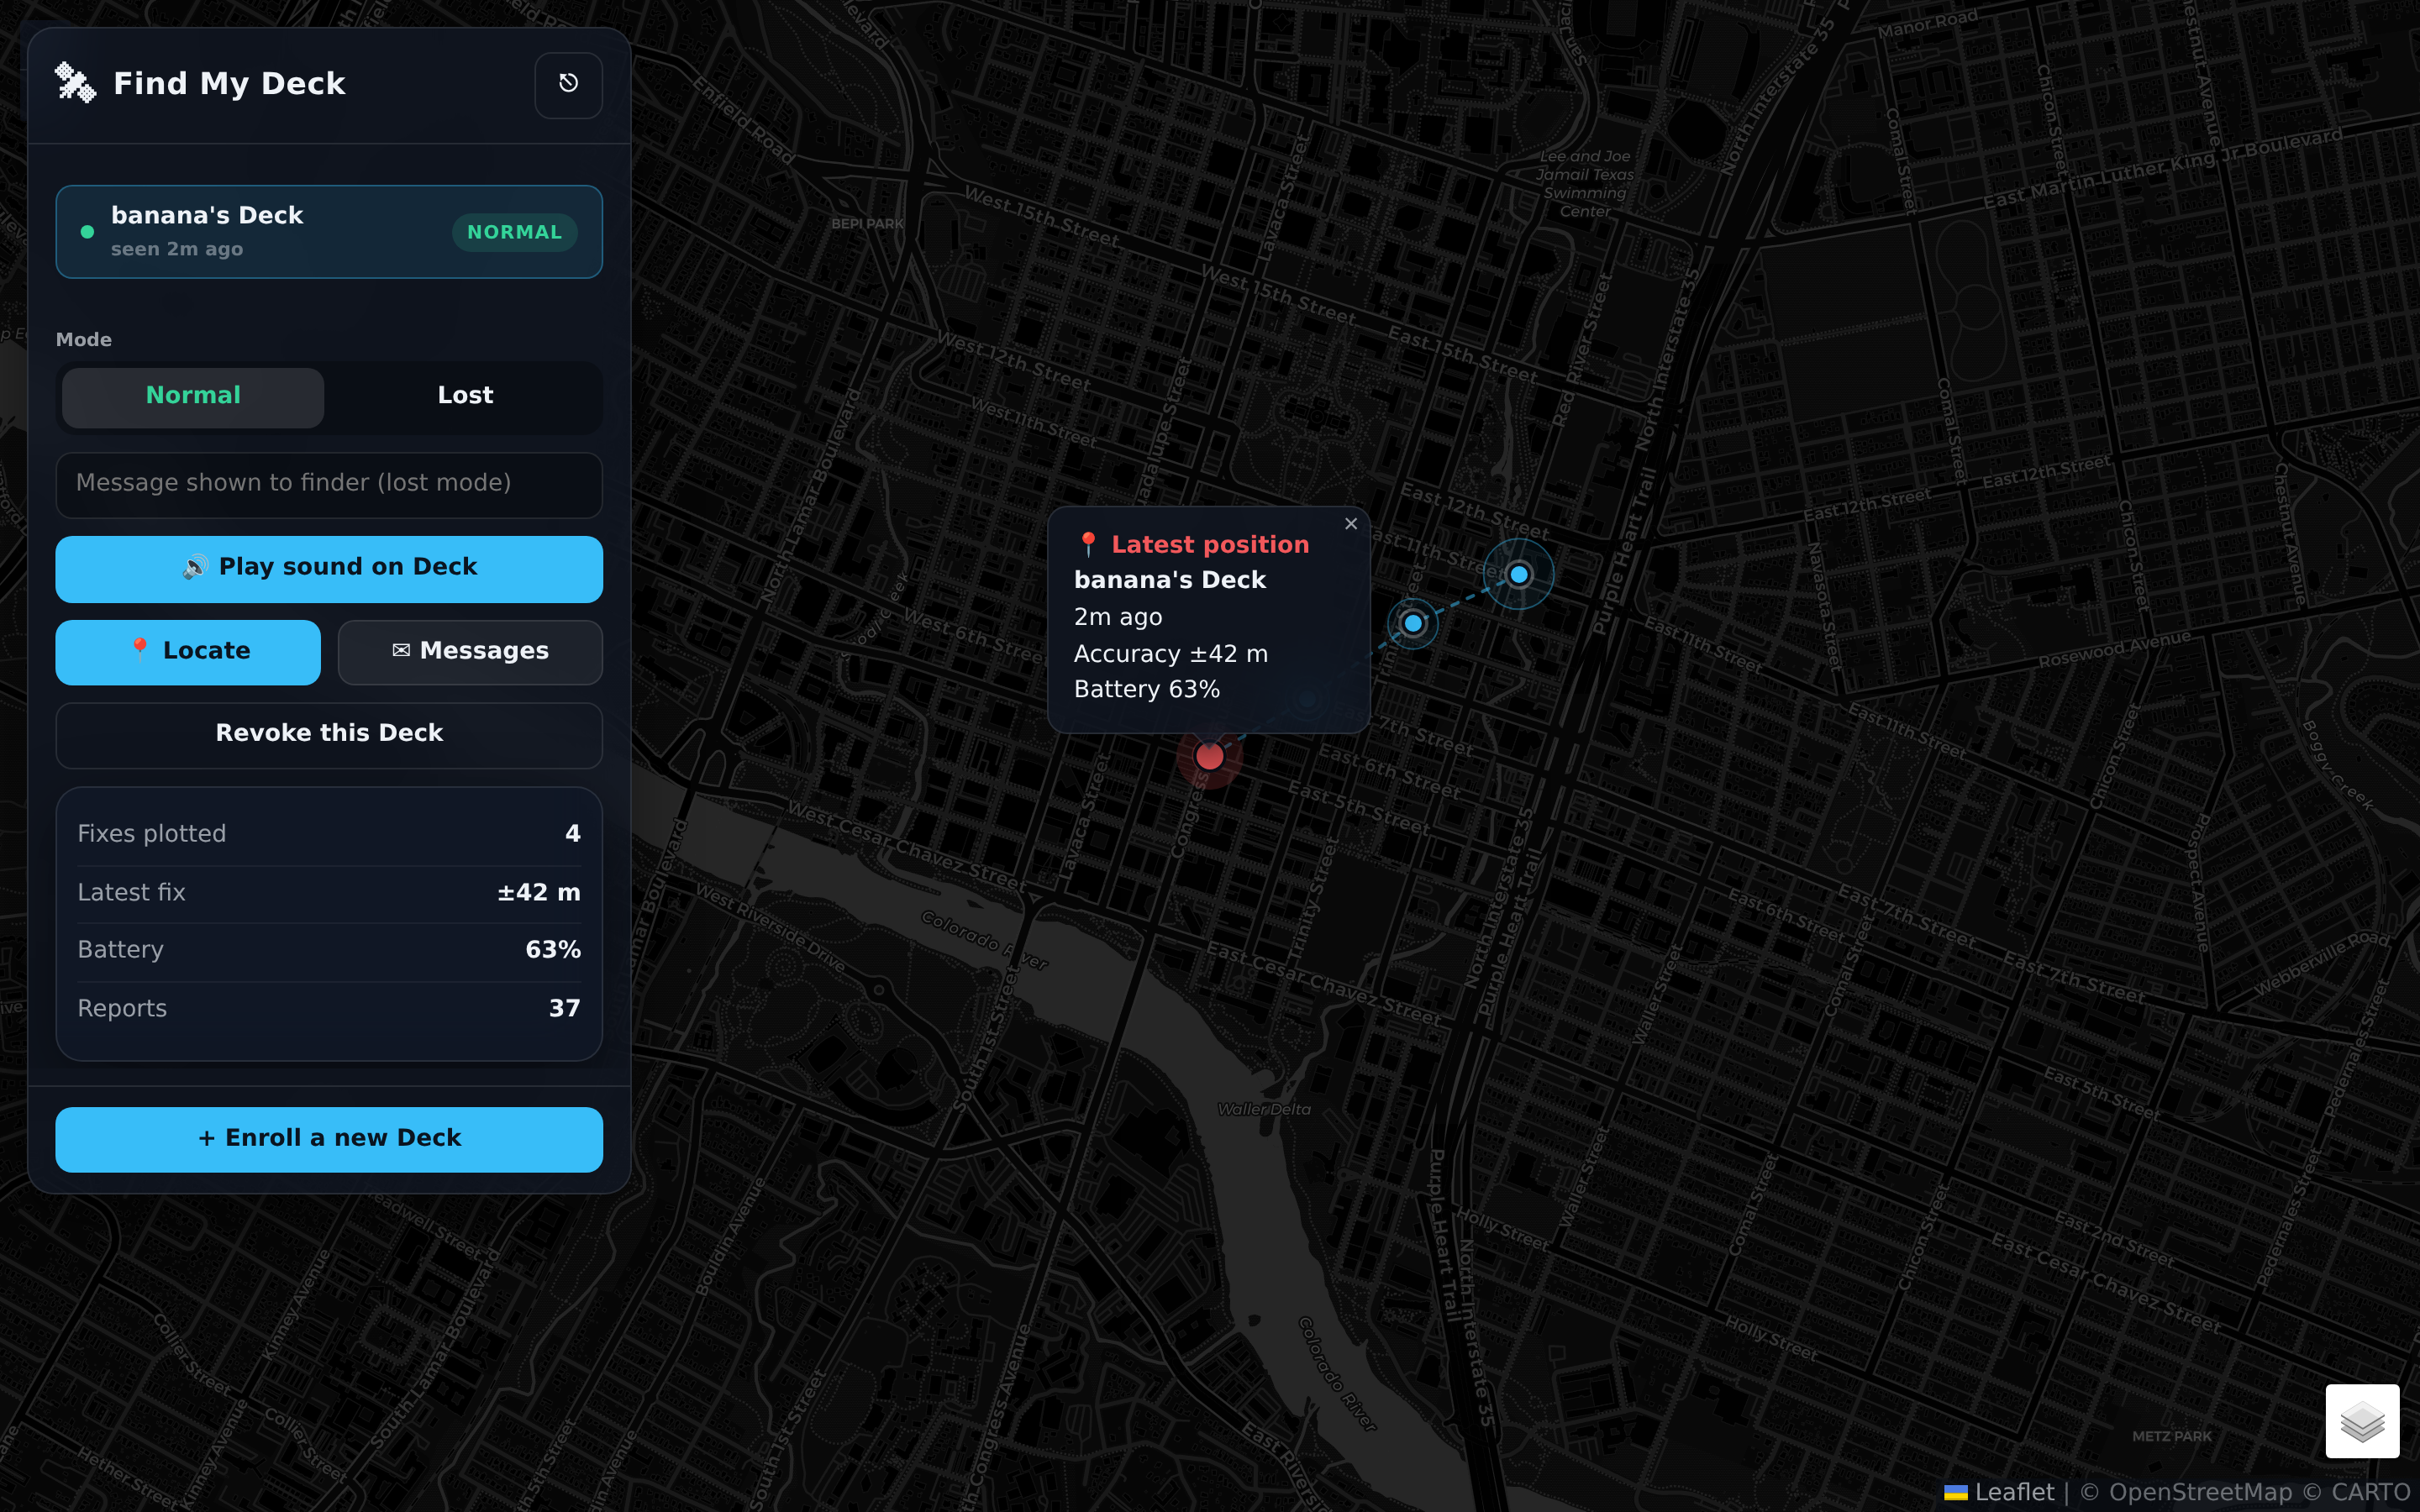
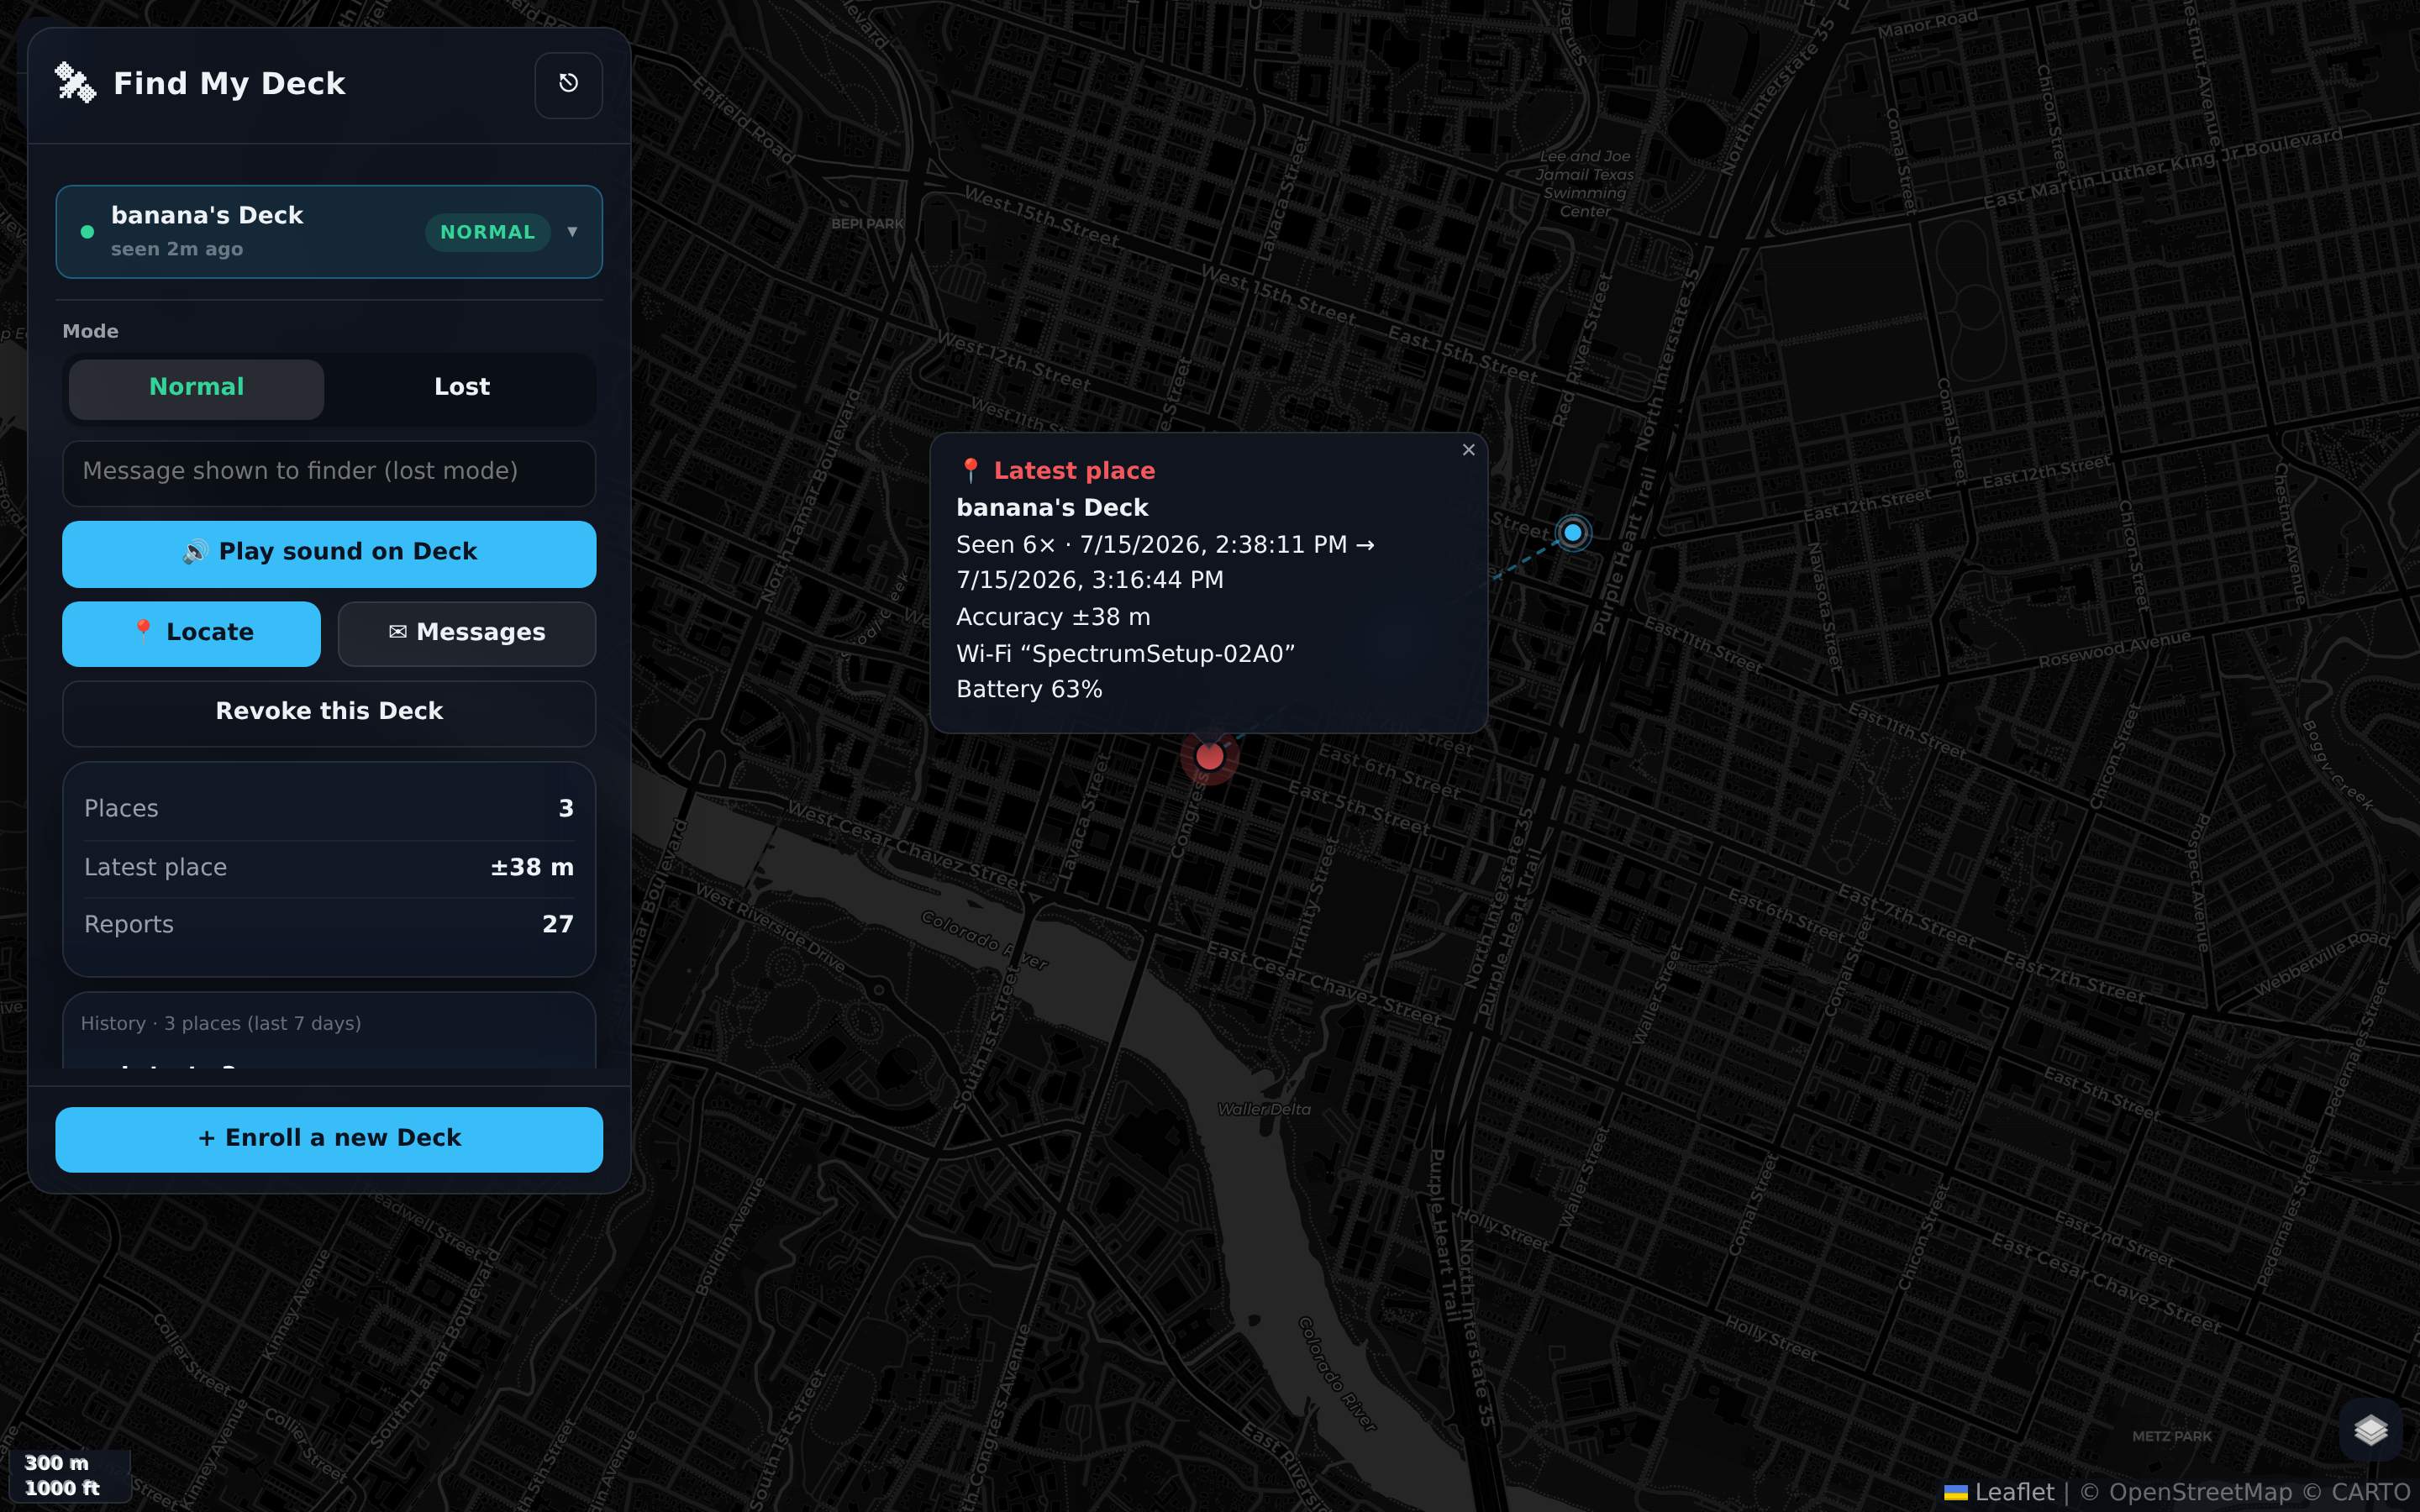
Cluster locations into places; glass map controls + scale bar; plugin v0.8.2
- dashboard: cluster jittery same-place Wi-Fi fixes into distinct places
  (visit count + time span); History and popups now read "places", not raw
  pings. Clustering is client-side by necessity — the server only holds
  ciphertext and never sees a coordinate.
- map: glassy zoom + layers controls, a distance scale bar with tick marks
- plugin: v0.8.2 (bundles the connected-SSID capture)
- docs: refresh dashboard screenshot to current copy (Places / History)

diff --git a/docs/media/demo-dashboard.html b/docs/media/demo-dashboard.html
@@ -23,7 +23,33 @@
     .leaflet-container { background: #0a0f18 !important; font: inherit; }
     .leaflet-control-attribution { background: rgba(10,15,24,.6) !important; color: var(--ink-faint) !important; }
     .leaflet-control-attribution a { color: var(--ink-dim) !important; }
-    .leaflet-bar a { background: var(--glass) !important; color: var(--ink) !important; border-color: var(--glass-brd) !important; }
+    /* zoom control — glass, rounded, with a tick divider between +/- */
+    .leaflet-bar { border: none !important; border-radius: 12px !important; overflow: hidden;
+      box-shadow: 0 8px 24px rgba(0,0,0,.45) !important; }
+    .leaflet-bar a { background: var(--glass) !important; color: var(--ink) !important;
+      backdrop-filter: blur(18px) saturate(1.3); -webkit-backdrop-filter: blur(18px) saturate(1.3);
+      width: 34px !important; height: 34px !important; line-height: 34px !important; font-size: 19px !important;
+      border: none !important; border-bottom: 1px solid var(--glass-brd) !important; transition: background .15s, color .15s; }
+    .leaflet-bar a:last-child { border-bottom: none !important; }
+    .leaflet-bar a:hover { background: rgba(56,189,248,.16) !important; color: var(--accent) !important; }
+    .leaflet-bar a.leaflet-disabled { opacity: .35 !important; }
+
+    /* layers switcher — glass pill toggle + glass panel when open */
+    .leaflet-control-layers { border: none !important; border-radius: 12px !important;
+      background: var(--glass) !important; color: var(--ink) !important;
+      backdrop-filter: blur(18px) saturate(1.3); -webkit-backdrop-filter: blur(18px) saturate(1.3);
+      box-shadow: 0 8px 24px rgba(0,0,0,.45) !important; }
+    .leaflet-control-layers-toggle { width: 38px !important; height: 38px !important;
+      background-size: 20px 20px !important; }
+    .leaflet-control-layers-expanded { padding: 10px 14px 10px 10px !important; }
+    .leaflet-control-layers label { font-size: 13px; font-weight: 600; margin: 3px 0; display: flex; align-items: center; gap: 7px; }
+    .leaflet-control-layers-selector { accent-color: var(--accent); }
+
+    /* scale bar — distance tick marks */
+    .leaflet-control-scale-line { background: var(--glass) !important; color: var(--ink-dim) !important;
+      border: 1px solid var(--glass-brd) !important; border-top: none !important; border-radius: 0 0 6px 6px;
+      padding: 2px 8px !important; font-size: 11px; font-weight: 600;
+      backdrop-filter: blur(12px); -webkit-backdrop-filter: blur(12px); }
 
     /* floating layer */
     .layer { position: fixed; z-index: 10; }
@@ -77,6 +103,11 @@
       background: transparent; border: 1px solid transparent; }
     .devbtn:hover { background: rgba(255,255,255,.06); }
     .devbtn.active { background: rgba(56,189,248,.12); border-color: rgba(56,189,248,.35); }
+    .devbtn .chev { font-size: 12px; opacity: .55; transition: transform .18s ease; }
+    .devbtn.open .chev { transform: rotate(90deg); }
+    .drawer { display: flex; flex-direction: column; gap: 8px; padding: 10px 4px 4px;
+      margin: 2px 0 4px; border-top: 1px solid var(--glass-brd); animation: drawer .18s ease; }
+    @keyframes drawer { from { opacity: 0; transform: translateY(-4px); } to { opacity: 1; transform: none; } }
     .dot { width: 8px; height: 8px; border-radius: 50%; flex: none; }
     .dot.normal { background: var(--normal); } .dot.lost { background: var(--lost); } .dot.stolen { background: var(--stolen); }
 
@@ -105,6 +136,17 @@
     a { color: var(--accent); }
     .empty { text-align: center; color: var(--ink-dim); padding: 24px 8px; }
 
+    /* location history */
+    .histlist { max-height: 240px; overflow-y: auto; display: flex; flex-direction: column; gap: 2px; margin: 0 -2px; }
+    .histrow { display: flex; gap: 10px; align-items: center; width: 100%; text-align: left;
+      background: transparent; border: 0; border-radius: 8px; padding: 7px 8px; cursor: pointer; color: var(--ink); }
+    .histrow:hover { background: rgba(255,255,255,.06); }
+    .histrow .hr-dot { width: 8px; height: 8px; border-radius: 50%; background: var(--accent); flex: none; }
+    .histrow.latest .hr-dot { background: #f2585b; box-shadow: 0 0 8px rgba(242,88,91,.7); }
+    .hr-main { display: flex; flex-direction: column; gap: 1px; min-width: 0; }
+    .hr-when { font-size: 13px; font-weight: 600; }
+    .hr-sub { font-size: 11px; color: var(--ink-dim); white-space: nowrap; overflow: hidden; text-overflow: ellipsis; }
+
     /* map markers */
     .pin { border-radius: 50%; border: 2px solid #0a0f18; box-shadow: 0 0 0 2px rgba(255,255,255,.25); }
     .pin-latest { animation: pulse 2s ease-out infinite; }
@@ -127,13 +169,19 @@
     // --- self-contained mock: hardcoded fake data, no server, no fetch ---
     const h = (html) => { const t = document.createElement('template'); t.innerHTML = html.trim(); return t.content.firstChild; };
 
-    // Austin, TX. Newest-first trail (latest at index 0).
+    // Austin, TX. Clustered PLACES (newest-first, latest at index 0). Each place
+    // is a de-noised centre of nearby Wi-Fi pings, with a visit count + time span.
     const CENTER = [30.2672, -97.7431];
-    const fixes = [
-      { lat: 30.26720, lon: -97.74310, accuracy: 42, batt: 0.63, label: '2m ago' },
-      { lat: 30.26845, lon: -97.74060, accuracy: 55, batt: 0.66, label: '19m ago' },
-      { lat: 30.27010, lon: -97.73790, accuracy: 61, batt: 0.71, label: '48m ago' },
-      { lat: 30.27120, lon: -97.73520, accuracy: 88, batt: 0.74, label: '1h ago' },
+    const places = [
+      { lat: 30.26720, lon: -97.74310, accuracy: 38, batt: 0.63, count: 6,
+        ssid: 'SpectrumSetup-02A0', when: 'Latest · 2m ago',
+        span: 'Seen 6× · 7/15/2026, 2:38:11 PM → 7/15/2026, 3:16:44 PM' },
+      { lat: 30.26980, lon: -97.73840, accuracy: 52, batt: 0.71, count: 3,
+        ssid: 'Mozzarella-5G', when: '3h ago',
+        span: 'Seen 3× · 7/15/2026, 11:52:03 AM → 7/15/2026, 12:19:37 PM' },
+      { lat: 30.27210, lon: -97.73380, accuracy: 44, batt: 0.44, count: 1,
+        ssid: 'CoffeeShop_Guest', when: '1d ago',
+        span: '7/14/2026, 4:07:52 PM' },
     ];
 
     const map = L.map('map', { zoomControl: true, attributionControl: true }).setView(CENTER, 15);
@@ -150,6 +198,7 @@
     };
     bases['🌑 Dark'].addTo(map);
     L.control.layers(bases, null, { position: 'bottomright', collapsed: true }).addTo(map);
+    L.control.scale({ metric: true, imperial: true, position: 'bottomleft' }).addTo(map);
     const layerGroup = L.layerGroup().addTo(map);
 
     function markerIcon(latest) {
@@ -161,20 +210,22 @@
       });
     }
 
-    const pts = fixes.map((f) => [f.lat, f.lon]); // newest-first
+    // Dashed cyan trail connecting the 3 place-centres.
+    const pts = places.map((p) => [p.lat, p.lon]); // newest-first
     L.polyline([...pts].reverse(), { color: '#38bdf8', weight: 2, opacity: 0.5, dashArray: '4 6' }).addTo(layerGroup);
 
     let latestMarker = null;
-    fixes.forEach((f, i) => {
+    places.forEach((p, i) => {
       const latest = i === 0;
-      L.circle([f.lat, f.lon], { radius: f.accuracy, color: latest ? '#f2585b' : '#38bdf8', weight: 1, opacity: 0.4, fillOpacity: 0.06 }).addTo(layerGroup);
-      const mk = L.marker([f.lat, f.lon], { icon: markerIcon(latest) }).addTo(layerGroup);
-      mk.bindPopup(`<div style="min-width:160px">
-          <b style="color:${latest ? '#f2585b' : '#38bdf8'}">${latest ? '📍 Latest position' : 'Earlier position'}</b><br>
+      L.circle([p.lat, p.lon], { radius: p.accuracy, color: latest ? '#f2585b' : '#38bdf8', weight: 1, opacity: 0.4, fillOpacity: 0.06 }).addTo(layerGroup);
+      const mk = L.marker([p.lat, p.lon], { icon: markerIcon(latest) }).addTo(layerGroup);
+      mk.bindPopup(`<div style="min-width:170px">
+          <b style="color:${latest ? '#f2585b' : '#38bdf8'}">${latest ? '📍 Latest place' : 'Earlier place'}</b><br>
           <b>banana's Deck</b><br>
-          ${f.label}<br>
-          Accuracy ±${Math.round(f.accuracy)} m
-          <br>Battery ${Math.round(f.batt * 100)}%
+          ${p.span}<br>
+          Accuracy ±${Math.round(p.accuracy)} m
+          <br>Wi-Fi “${p.ssid}”
+          <br>Battery ${Math.round(p.batt * 100)}%
         </div>`);
       if (latest) latestMarker = mk;
     });
@@ -188,40 +239,67 @@
           <button class="ghost" title="Sign out">⎋</button>
         </div>
         <div class="panel-bd col">
-          <button class="devbtn active">
+          <button class="devbtn active open">
             <span class="dot normal"></span>
             <span style="flex:1">
               <div style="font-weight:600">banana's Deck</div>
               <div class="faint">seen 2m ago</div>
             </span>
             <span class="pill normal">normal</span>
+            <span class="chev">▸</span>
           </button>
 
-          <div style="height:1px;background:var(--glass-brd);margin:4px 0"></div>
-
-          <div>
-            <label>Mode</label>
-            <div class="seg">
-              <button class="on normal">Normal</button>
-              <button>Lost</button>
+          <div class="drawer col">
+            <div>
+              <label>Mode</label>
+              <div class="seg">
+                <button class="on normal">Normal</button>
+                <button>Lost</button>
+              </div>
             </div>
-          </div>
-          <input placeholder="Message shown to finder (lost mode)">
+            <input id="lostmsg" placeholder="Message shown to finder (lost mode)">
 
-          <button class="primary" style="width:100%">🔊 Play sound on Deck</button>
+            <button class="primary" style="width:100%">🔊 Play sound on Deck</button>
 
-          <div class="row">
-            <button class="primary" style="flex:1">📍 Locate</button>
-            <button style="flex:1">✉ Messages</button>
-          </div>
+            <div class="row">
+              <button class="primary" style="flex:1">📍 Locate</button>
+              <button style="flex:1">✉ Messages</button>
+            </div>
 
-          <button class="ghost danger" style="width:100%">Revoke this Deck</button>
+            <button class="ghost danger" style="width:100%">Revoke this Deck</button>
 
-          <div class="glass" style="padding:12px">
-            <div class="kv"><span class="k">Fixes plotted</span><span class="v">4</span></div>
-            <div class="kv"><span class="k">Latest fix</span><span class="v">±42 m</span></div>
-            <div class="kv"><span class="k">Battery</span><span class="v">63%</span></div>
-            <div class="kv"><span class="k">Reports</span><span class="v">37</span></div>
+            <div class="glass" style="padding:12px">
+              <div class="kv"><span class="k">Places</span><span class="v">3</span></div>
+              <div class="kv"><span class="k">Latest place</span><span class="v">±38 m</span></div>
+              <div class="kv"><span class="k">Reports</span><span class="v">27</span></div>
+            </div>
+
+            <div class="glass" style="padding:10px">
+              <div class="faint" style="margin-bottom:6px">History · 3 places (last 7 days)</div>
+              <div class="histlist">
+                <button class="histrow latest">
+                  <span class="hr-dot"></span>
+                  <span class="hr-main">
+                    <span class="hr-when">Latest · 2m ago</span>
+                    <span class="hr-sub">📶 SpectrumSetup-02A0 · 6 pings · ±38 m · 🔋 63%</span>
+                  </span>
+                </button>
+                <button class="histrow">
+                  <span class="hr-dot"></span>
+                  <span class="hr-main">
+                    <span class="hr-when">3h ago</span>
+                    <span class="hr-sub">📶 Mozzarella-5G · 3 pings · ±52 m · 🔋 71%</span>
+                  </span>
+                </button>
+                <button class="histrow">
+                  <span class="hr-dot"></span>
+                  <span class="hr-main">
+                    <span class="hr-when">1d ago</span>
+                    <span class="hr-sub">📶 CoffeeShop_Guest · ±44 m · 🔋 44%</span>
+                  </span>
+                </button>
+              </div>
+            </div>
           </div>
         </div>
         <div style="padding:12px 16px;border-top:1px solid var(--glass-brd)">

diff --git a/dashboard/src/main.js b/dashboard/src/main.js
@@ -60,6 +60,7 @@ function ensureMap() {
   const saved = localStorage.getItem('fmsd_basemap');
   (bases[saved] || bases['🌑 Dark']).addTo(map);
   L.control.layers(bases, null, { position: 'bottomright', collapsed: true }).addTo(map);
+  L.control.scale({ metric: true, imperial: true, position: 'bottomleft' }).addTo(map);
   map.on('baselayerchange', (e) => localStorage.setItem('fmsd_basemap', e.name));
   layerGroup = L.layerGroup().addTo(map);
   return map;
@@ -78,12 +79,51 @@ function markerIcon(latest) {
 // array (newest-first) so the history list can focus any one of them.
 let fixMarkers = [];
 
+// Great-circle distance in metres between [lat,lon] pairs.
+function metersBetween(a, b) {
+  const R = 6371000, toRad = Math.PI / 180;
+  const dLat = (b[0] - a[0]) * toRad, dLon = (b[1] - a[1]) * toRad;
+  const s = Math.sin(dLat / 2) ** 2
+    + Math.cos(a[0] * toRad) * Math.cos(b[0] * toRad) * Math.sin(dLon / 2) ** 2;
+  return 2 * R * Math.asin(Math.sqrt(s));
+}
+
+// Collapse fixes at the "same place" into one point. Two fixes are the same
+// place when their centres fall within each other's error (or ~20 m floor) —
+// Wi-Fi fixes jitter tens of metres while stationary, so this de-noises the
+// map into places visited, each with a visit count and a time span.
+function clusterFixes(fixes) {
+  const clusters = [];
+  for (const f of fixes) {
+    const c = clusters.find((cl) =>
+      metersBetween([cl.lat, cl.lon], [f.lat, f.lon]) <= Math.max(cl.accuracy, f.accuracy, 20));
+    if (c) {
+      c.members.push(f);
+      c.lat = c.members.reduce((s, m) => s + m.lat, 0) / c.members.length;
+      c.lon = c.members.reduce((s, m) => s + m.lon, 0) / c.members.length;
+      c.accuracy = Math.min(c.accuracy, f.accuracy);
+      c.first = Math.min(c.first, f.ts);
+      c.last = Math.max(c.last, f.ts);
+    } else {
+      clusters.push({
+        lat: f.lat, lon: f.lon, accuracy: f.accuracy, members: [f],
+        first: f.ts, last: f.ts, ts: f.ts, batt: f.batt, ssid: f.ssid,
+      });
+    }
+  }
+  // ts = most recent sighting; keep clusters newest-first (fixes came in that order).
+  clusters.forEach((c) => { c.ts = c.last; c.count = c.members.length; });
+  return clusters;
+}
+
 function fixPopupHtml(f, latest, meta) {
-  const when = new Date(f.ts).toLocaleString();
-  return `<div style="min-width:160px">
-      <b style="color:${latest ? '#f2585b' : '#38bdf8'}">${latest ? '📍 Latest position' : 'Earlier position'}</b><br>
+  const span = f.count > 1
+    ? `Seen ${f.count}× · ${new Date(f.first).toLocaleString()} → ${new Date(f.last).toLocaleString()}`
+    : new Date(f.ts).toLocaleString();
+  return `<div style="min-width:170px">
+      <b style="color:${latest ? '#f2585b' : '#38bdf8'}">${latest ? '📍 Latest place' : 'Earlier place'}</b><br>
       ${meta.name ? `<b>${esc(meta.name)}</b><br>` : ''}
-      ${when}<br>
+      ${span}<br>
       Accuracy ±${Math.round(f.accuracy)} m
       ${f.ssid ? `<br>Wi-Fi “${esc(f.ssid)}”` : ''}
       ${f.batt >= 0 ? `<br>Battery ${Math.round(f.batt * 100)}%` : ''}
@@ -505,18 +545,20 @@ async function locateFlow(d, body) {
     for (const r of reports.slice(0, 100)) {
       try { const f = await resolveWifi(r.wifi || []); if (f) fixes.push({ ...f, ts: r.ts, batt: r.batt, ssid: r.ssid }); else noMatch += 1; } catch { noMatch += 1; }
     }
-    plotFixes(fixes, { name: d.name });
+    // Collapse jittery same-place pings into distinct places before plotting.
+    const places = clusterFixes(fixes);
+    plotFixes(places, { name: d.name });
 
     const recurring = btRecurrence(reports);
     out.innerHTML = '';
     out.append(closeBar(out, 'Location'));
     out.append(h(`<div class="glass" style="padding:12px">
-      <div class="kv"><span class="k">Fixes plotted</span><span class="v">${fixes.length}</span></div>
-      <div class="kv"><span class="k">Latest fix</span><span class="v">${fixes[0] ? '±' + Math.round(fixes[0].accuracy) + 'm' : '—'}</span></div>
+      <div class="kv"><span class="k">Places</span><span class="v">${places.length}</span></div>
+      <div class="kv"><span class="k">Latest place</span><span class="v">${places[0] ? '±' + Math.round(places[0].accuracy) + 'm' : '—'}</span></div>
       <div class="kv"><span class="k">Reports</span><span class="v">${reports.length}</span></div>
       ${noMatch ? `<div class="kv"><span class="k">No Wi-Fi match</span><span class="v">${noMatch}</span></div>` : ''}
     </div>`));
-    if (!fixes.length) {
+    if (!places.length) {
       out.append(h(`<div class="faint">No Wi-Fi-based fix yet. beacondb/Apple didn't recognize these access points — a scan with more nearby networks, or a busier area, resolves better.</div>`));
     }
     if (recurring.length) {
@@ -526,19 +568,21 @@ async function locateFlow(d, body) {
       </div>`));
     }
 
-    // History — every located fix over the retained window (7 days), newest
-    // first. Click a row to fly the map to that point.
-    if (fixes.length) {
+    // History — distinct places over the retained window (7 days), newest
+    // first. Nearby jittery pings are clustered into one place with a visit
+    // count. Click a row to fly the map to it.
+    if (places.length) {
       const hist = h(`<div class="glass" style="padding:10px">
-        <div class="faint" style="margin-bottom:6px">History · ${fixes.length} location${fixes.length > 1 ? 's' : ''} (last 7 days)</div>
+        <div class="faint" style="margin-bottom:6px">History · ${places.length} place${places.length > 1 ? 's' : ''} (last 7 days)</div>
         <div class="histlist"></div></div>`);
       const list = hist.querySelector('.histlist');
-      fixes.forEach((f, i) => {
-        const row = h(`<button class="histrow${i === 0 ? ' latest' : ''}" title="${esc(new Date(f.ts).toLocaleString())}">
+      places.forEach((p, i) => {
+        const visits = p.count > 1 ? `${p.count} pings · ` : '';
+        const row = h(`<button class="histrow${i === 0 ? ' latest' : ''}" title="${esc(new Date(p.first).toLocaleString())} → ${esc(new Date(p.last).toLocaleString())}">
           <span class="hr-dot"></span>
           <span class="hr-main">
-            <span class="hr-when">${i === 0 ? 'Latest · ' : ''}${timeAgo(f.ts)}</span>
-            <span class="hr-sub">${f.ssid ? '📶 ' + esc(f.ssid) + ' · ' : ''}±${Math.round(f.accuracy)} m${f.batt >= 0 ? ' · 🔋 ' + Math.round(f.batt * 100) + '%' : ''}</span>
+            <span class="hr-when">${i === 0 ? 'Latest · ' : ''}${timeAgo(p.last)}</span>
+            <span class="hr-sub">${p.ssid ? '📶 ' + esc(p.ssid) + ' · ' : ''}${visits}±${Math.round(p.accuracy)} m${p.batt >= 0 ? ' · 🔋 ' + Math.round(p.batt * 100) + '%' : ''}</span>
           </span></button>`);
         row.onclick = () => focusFix(i);
         list.append(row);

diff --git a/dashboard/index.html b/dashboard/index.html
@@ -23,7 +23,33 @@
     .leaflet-container { background: #0a0f18 !important; font: inherit; }
     .leaflet-control-attribution { background: rgba(10,15,24,.6) !important; color: var(--ink-faint) !important; }
     .leaflet-control-attribution a { color: var(--ink-dim) !important; }
-    .leaflet-bar a { background: var(--glass) !important; color: var(--ink) !important; border-color: var(--glass-brd) !important; }
+    /* zoom control — glass, rounded, with a tick divider between +/- */
+    .leaflet-bar { border: none !important; border-radius: 12px !important; overflow: hidden;
+      box-shadow: 0 8px 24px rgba(0,0,0,.45) !important; }
+    .leaflet-bar a { background: var(--glass) !important; color: var(--ink) !important;
+      backdrop-filter: blur(18px) saturate(1.3); -webkit-backdrop-filter: blur(18px) saturate(1.3);
+      width: 34px !important; height: 34px !important; line-height: 34px !important; font-size: 19px !important;
+      border: none !important; border-bottom: 1px solid var(--glass-brd) !important; transition: background .15s, color .15s; }
+    .leaflet-bar a:last-child { border-bottom: none !important; }
+    .leaflet-bar a:hover { background: rgba(56,189,248,.16) !important; color: var(--accent) !important; }
+    .leaflet-bar a.leaflet-disabled { opacity: .35 !important; }
+
+    /* layers switcher — glass pill toggle + glass panel when open */
+    .leaflet-control-layers { border: none !important; border-radius: 12px !important;
+      background: var(--glass) !important; color: var(--ink) !important;
+      backdrop-filter: blur(18px) saturate(1.3); -webkit-backdrop-filter: blur(18px) saturate(1.3);
+      box-shadow: 0 8px 24px rgba(0,0,0,.45) !important; }
+    .leaflet-control-layers-toggle { width: 38px !important; height: 38px !important;
+      background-size: 20px 20px !important; }
+    .leaflet-control-layers-expanded { padding: 10px 14px 10px 10px !important; }
+    .leaflet-control-layers label { font-size: 13px; font-weight: 600; margin: 3px 0; display: flex; align-items: center; gap: 7px; }
+    .leaflet-control-layers-selector { accent-color: var(--accent); }
+
+    /* scale bar — distance tick marks */
+    .leaflet-control-scale-line { background: var(--glass) !important; color: var(--ink-dim) !important;
+      border: 1px solid var(--glass-brd) !important; border-top: none !important; border-radius: 0 0 6px 6px;
+      padding: 2px 8px !important; font-size: 11px; font-weight: 600;
+      backdrop-filter: blur(12px); -webkit-backdrop-filter: blur(12px); }
 
     /* floating layer */
     .layer { position: fixed; z-index: 10; }